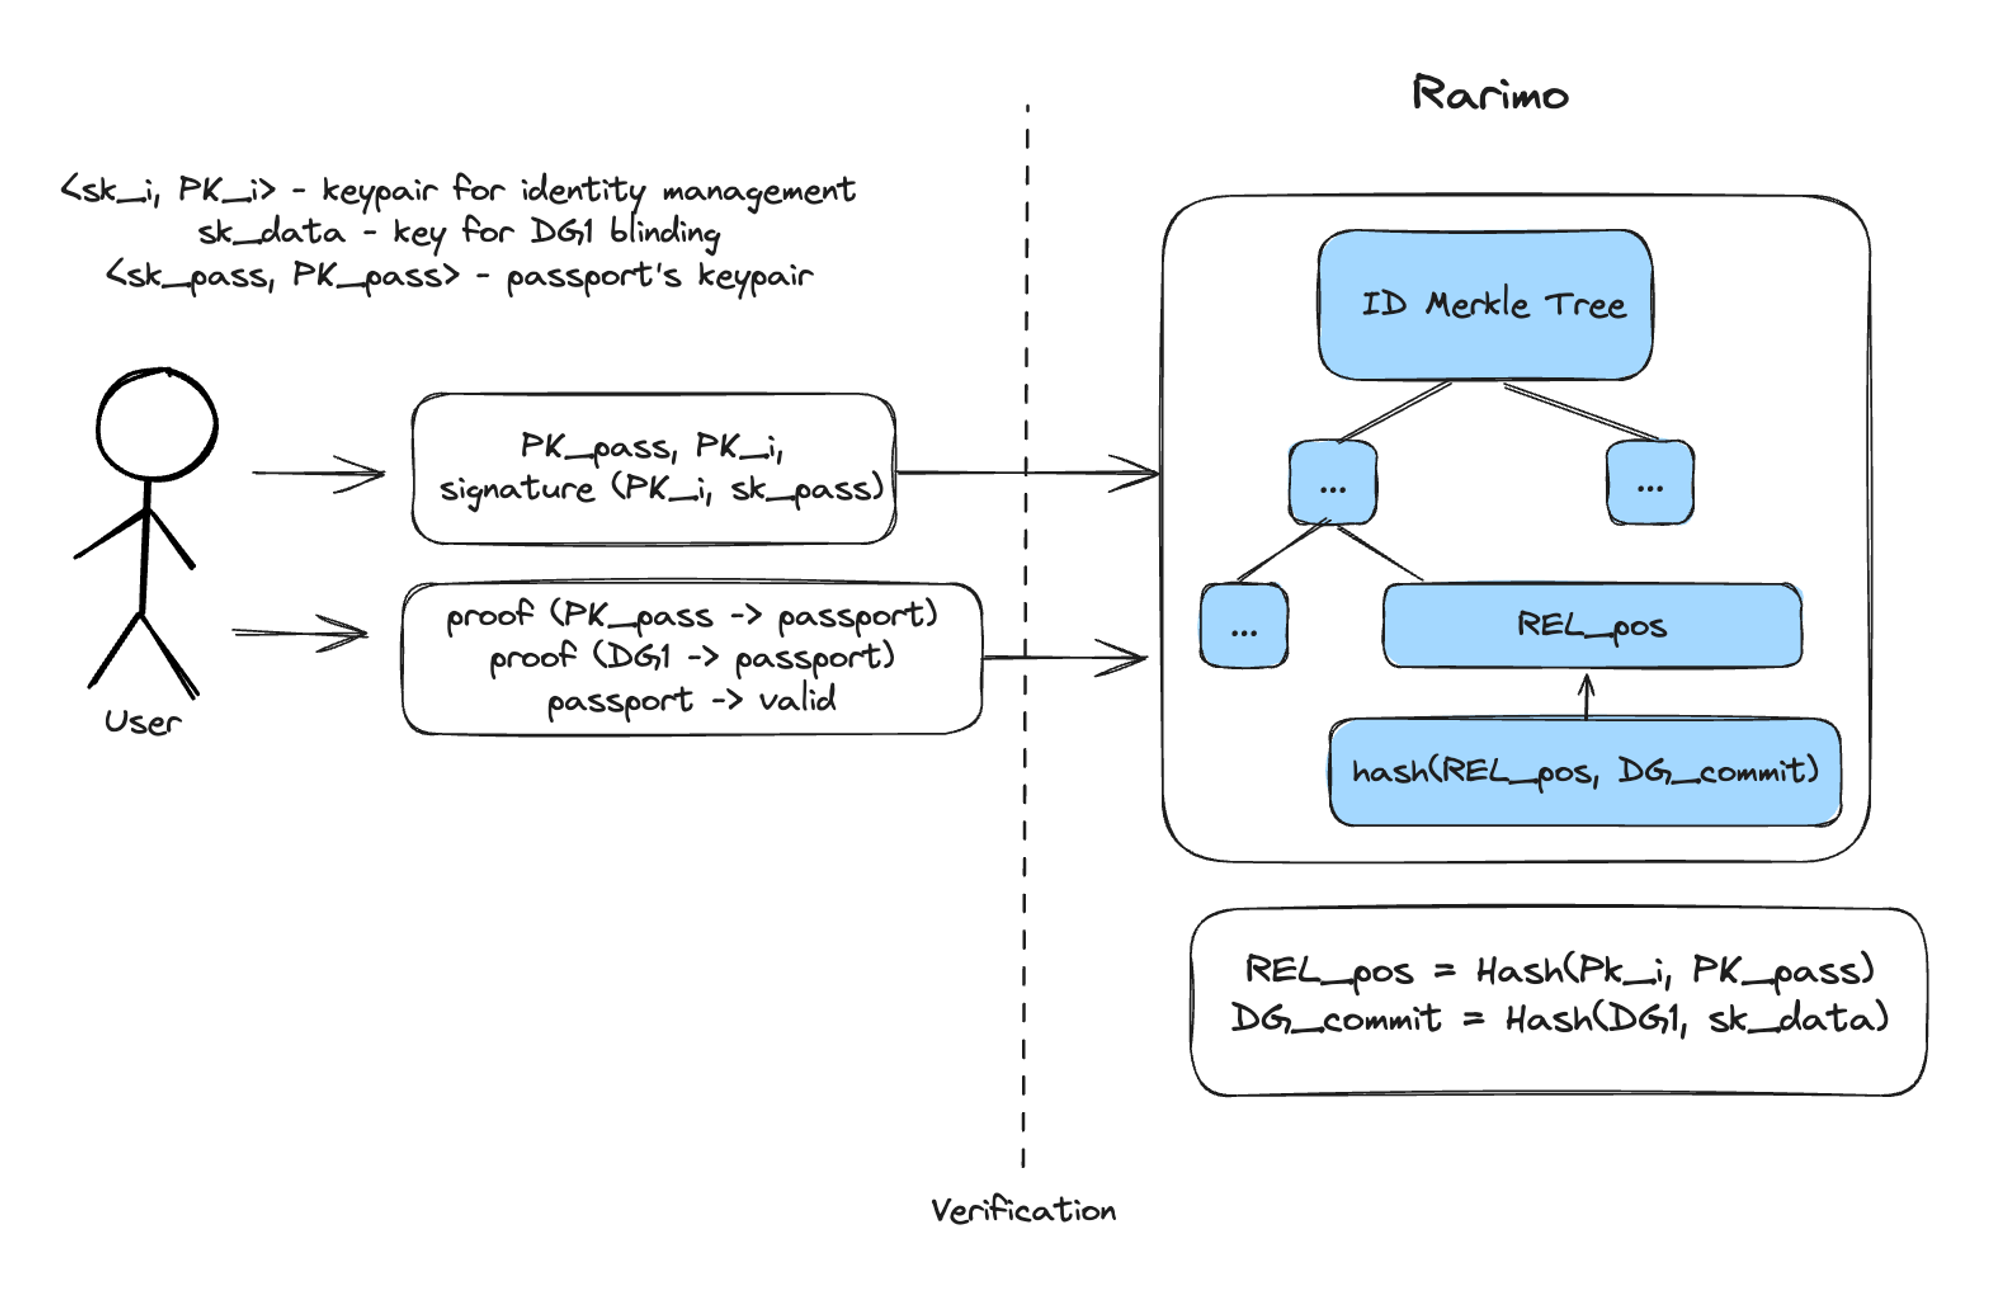
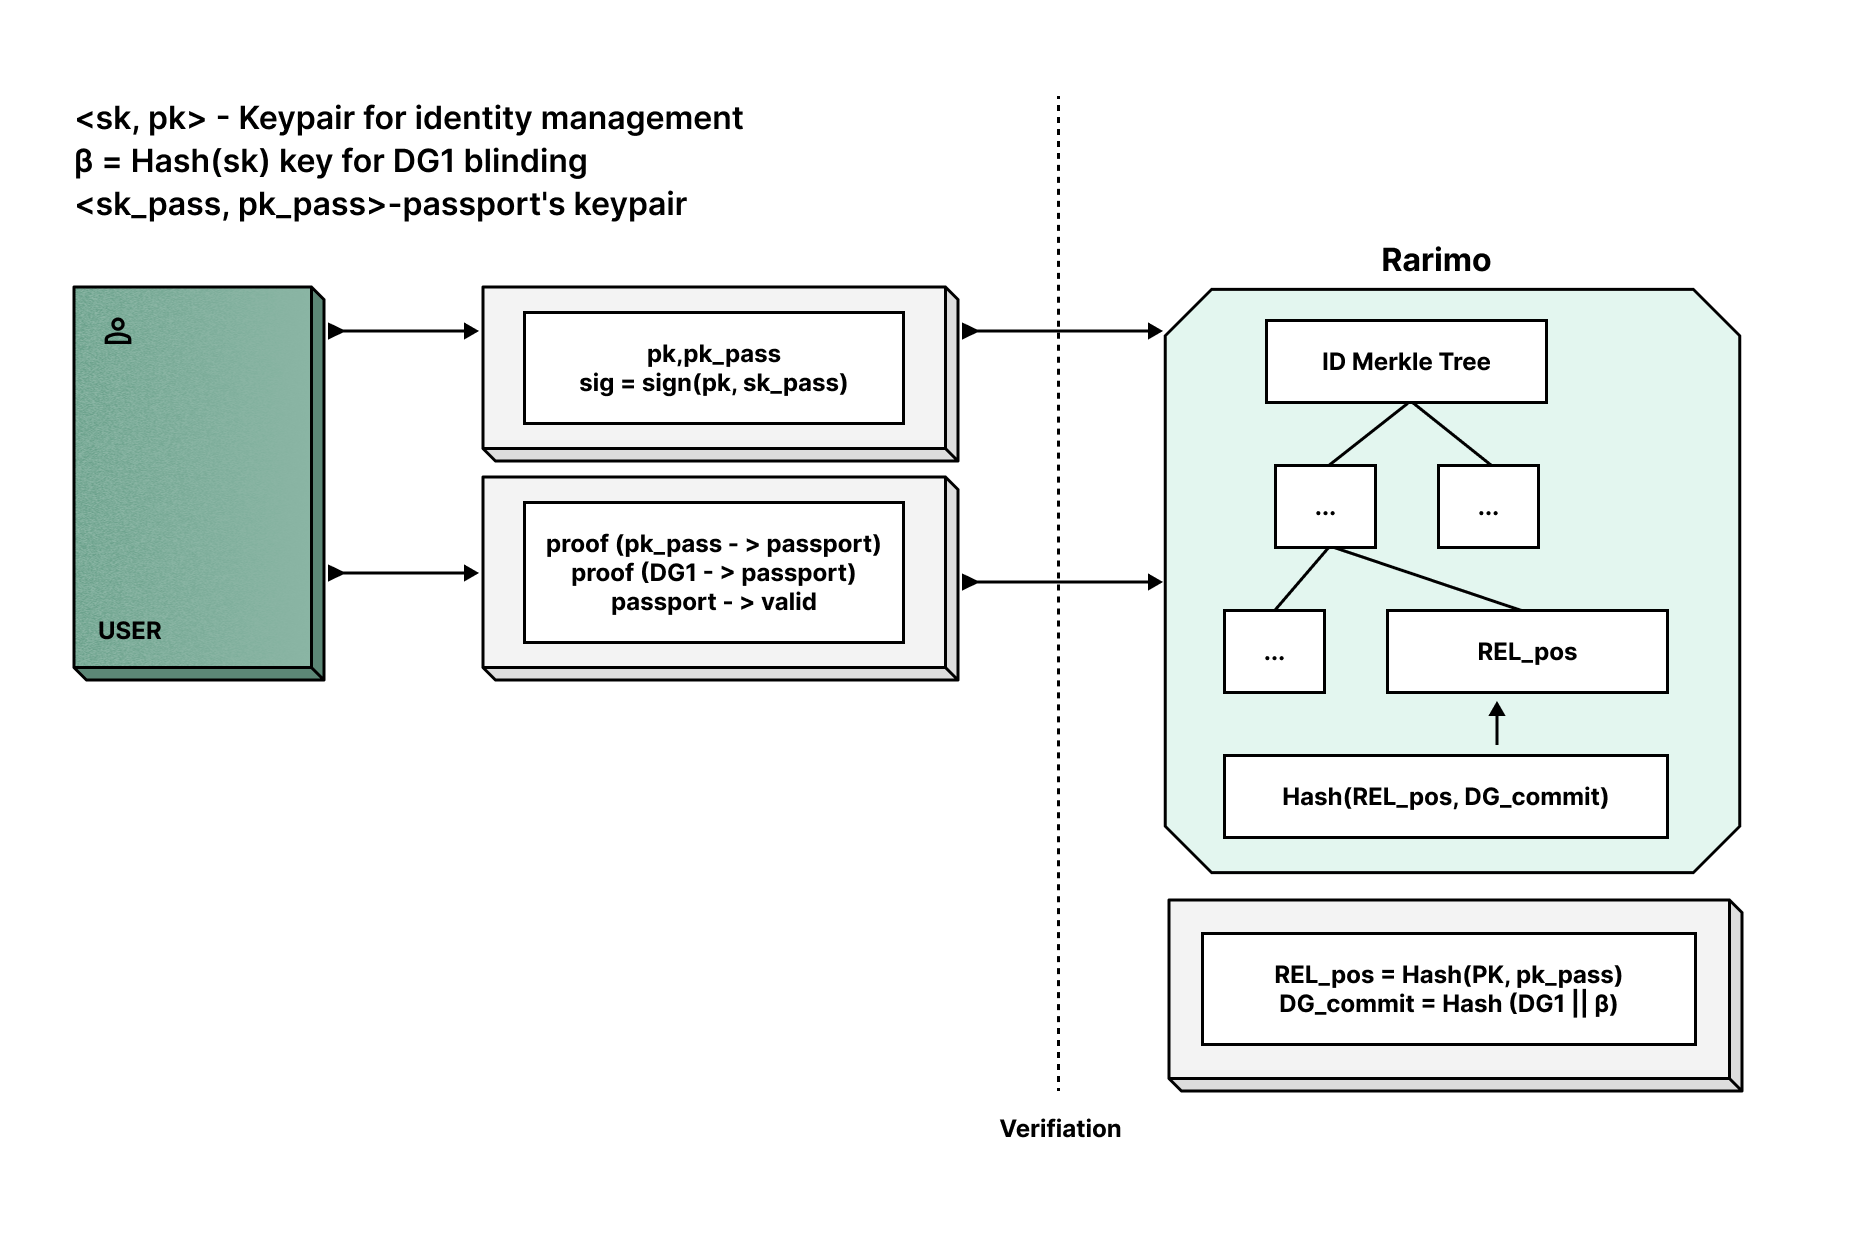
Updated passport charts

diff --git a/CHANGELOG.md b/CHANGELOG.md
@@ -7,6 +7,11 @@ and this project adheres to [Semantic Versioning](https://semver.org/spec/v2.0.0
 
 ## [Unreleased]
 
+## [3.6.1] - 10-05-2024
+
+### Changed
+- Updated charts in passporot-derived profiles overview;
+
 ## [3.6.0] - 10-05-2024
 
 ### Added
@@ -388,7 +393,8 @@ and this project adheres to [Semantic Versioning](https://semver.org/spec/v2.0.0
 - `Not Found` page returning HTTP status `200`;
 - Broken logo link in the footer;
 
-[Unreleased]: https://github.com/rarimo/docs/compare/v3.6.0...HEAD
+[Unreleased]: https://github.com/rarimo/docs/compare/v3.6.1...HEAD
+[3.6.1]: https://github.com/rarimo/docs/releases/tag/v3.6.0...v3.6.1
 [3.6.0]: https://github.com/rarimo/docs/releases/tag/v3.5.2...v3.6.0
 [3.5.2]: https://github.com/rarimo/docs/releases/tag/v3.5.1...v3.5.2
 [3.5.1]: https://github.com/rarimo/docs/releases/tag/v3.5.0...v3.5.1
